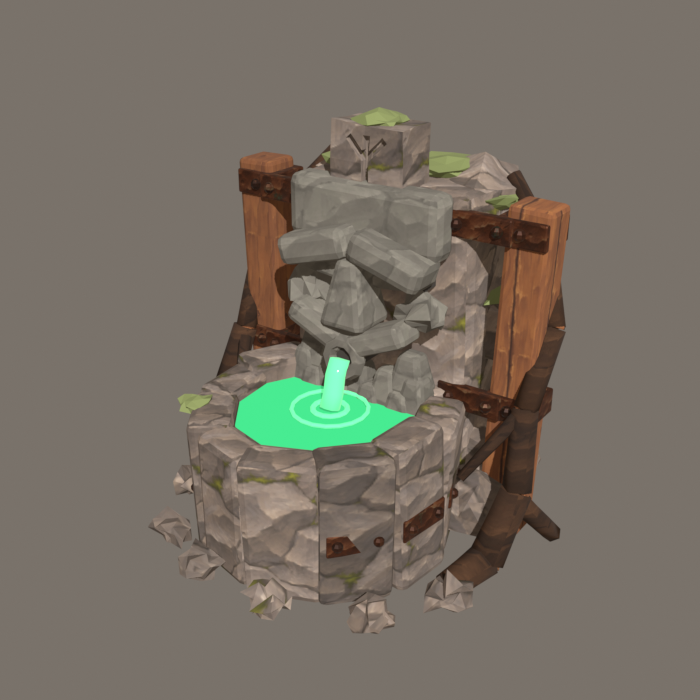
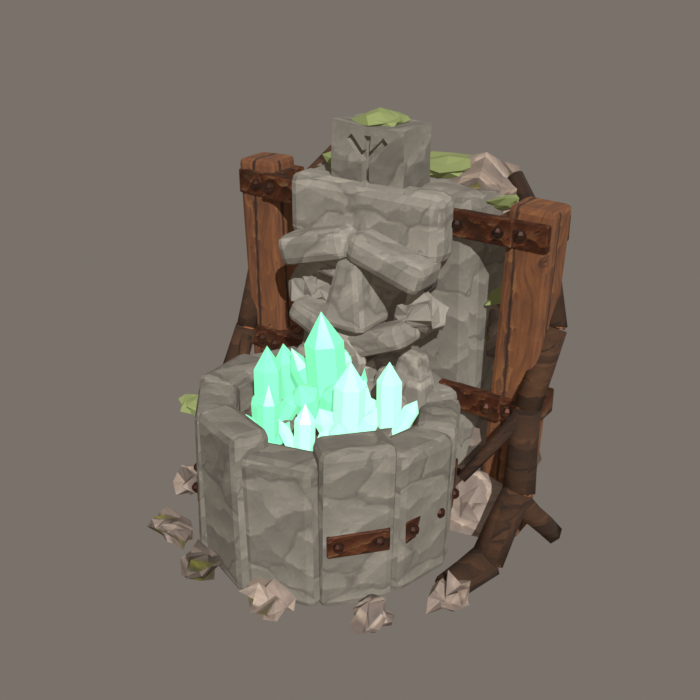
F782: healing fountain gets crystals instead of water and lighter stone

Changed region(s): [[0.21, 0.18, 0.81, 0.9], [0.75, 0.6, 0.78, 0.72]]

diff --git a/tools/fountain_page/healing_fountain_page.html b/tools/fountain_page/healing_fountain_page.html
@@ -45,7 +45,7 @@ ul { margin: 0; padding-left: 20px; max-width: 70ch; display: grid; gap: 4px; }
 <div class="wrap">
 	<header style="display:grid;gap:10px">
 		<h1>The new <span>healing fountain</span></h1>
-		<p class="lead">F782, for all four dungeons. A stone dwarf face pours glowing green water into a round stone basin, held up by old mine timbers with copper straps, with roots and moss growing over it. It is not in the game yet: tell me what to change first.</p>
+		<p class="lead">F782, for all four dungeons. A stone dwarf face watches over a round stone basin full of glowing green healing crystals, held up by old mine timbers with copper straps, with roots and moss growing over it. It is not in the game yet: tell me what to change first.</p>
 	</header>
 
 	<div class="bar">
@@ -63,8 +63,8 @@ ul { margin: 0; padding-left: 20px; max-width: 70ch; display: grid; gap: 4px; }
 	<section style="display:grid;gap:12px">
 		<h2>Things to look at</h2>
 		<ul>
-			<li>Does the stone face read as a dwarf (heavy brow, shut eyes, big nose, moustache, beard down to the water)?</li>
-			<li>Is the water green and glowing enough? It can glow more in the dark dungeons.</li>
+			<li>Does the stone face read as a dwarf (heavy brow, shut eyes, big nose, moustache, beard)?</li>
+			<li>Lighter stone now, and no water: the basin is full of glowing green crystals, with a small one growing out of the mouth.</li>
 			<li>It is a bit bigger than the old one (1.2 m instead of 0.95 m). I can shrink it to fit the old spot exactly.</li>
 			<li>The back is a pile of rough boulders, so it can stand against a wall or in the open.</li>
 		</ul>
@@ -104,7 +104,7 @@ function makeView(i) {
 	renderer.toneMapping = THREE.ACESFilmicToneMapping;
 	const scene = new THREE.Scene();
 	scene.background = new THREE.Color(0x2c2925);
-	scene.add(new THREE.HemisphereLight(0xfff4e0, 0x3a3128, 1.6));
+	scene.add(new THREE.HemisphereLight(0xfff4e0, 0x3a3128, 2.0));
 	const sun = new THREE.DirectionalLight(0xffe8c8, 2.2);
 	sun.position.set(2, 3, 3);
 	scene.add(sun);

diff --git a/tools/asset_forge/builds/healing_fountain.py b/tools/asset_forge/builds/healing_fountain.py
@@ -1,5 +1,6 @@
-# F782: the new dungeon healing fountain (owner picked design 1, Nov 22): a rune-carved stone dwarf face pours
-# glowing green water into a round stone basin. Mine-timber posts with copper straps hold the head, old roots
+# F782: the new dungeon healing fountain (owner picked design 1, Nov 22): a rune-carved stone dwarf face over a
+# round stone basin full of glowing green healing crystals (owner, Nov 22: no water, it would be hard to animate;
+# lighter stone). Mine-timber posts with copper straps hold the head, old roots
 # wind down the sides, moss on top. Built from assets/concepts/healing-fountain/fountain_turnaround.png
 # (the TRELLIS shape in journey/3d/trellis_f706/ was only a shape guide, model rule 1).
 # NOT in the game yet: the owner wants to see it first. Same floor spot as decor/mushroom_fountain (about 1 m round).
@@ -18,18 +19,17 @@ from decor_nov21_mg import carve  # noqa: E402
 CU = lambda v="b": kit.tex_mat("copper", v)  # noqa: E731
 WOOD = lambda: T("wood")  # noqa: E731
 BARK = lambda: T("bark")  # noqa: E731
-GREY = lambda: T("stone")  # noqa: E731
+GREY = lambda: T("limestone", "b")  # noqa: E731   (lighter stone, owner Nov 22)
 MOSS = lambda: kit.mat("moss", -0.25)
-FACE = lambda: T("limestone", "b")  # noqa: E731
+FACE = lambda: T("limestone", "a")  # noqa: E731
 DARK = lambda: C((0.07, 0.06, 0.05), 0.9)  # noqa: E731
-WATER_DEEP = lambda: C((0.01, 0.16, 0.07), 0.15, glow=0.4)  # noqa: E731
-WATER_TOP = lambda: C((0.03, 0.5, 0.17), 0.1, glow=0.9)  # noqa: E731
-WATER_POUR = lambda: C((0.12, 0.75, 0.3), 0.1, glow=1.1)  # noqa: E731
+GEM = lambda: C((0.18, 0.8, 0.42), 0.15, glow=0.8)  # noqa: E731          healing crystal
+GEM_PALE = lambda: C((0.35, 0.95, 0.6), 0.15, glow=0.9)  # noqa: E731     its lighter tips
 
 BX, BY = 0.0, -0.12      # basin centre
 R_OUT, R_IN = 0.37, 0.25  # basin stone ring
 TOP = 0.44               # basin rim height
-WATER = 0.39             # water surface
+BED = 0.36               # pebble bed inside the basin
 
 
 def basin():
@@ -44,10 +44,19 @@ def basin():
 			fy = BY - R_OUT + 0.005
 			for rot in (0, 32, -32):
 				carve(o, (0.022, 0.05, 0.19), (BX, fy, 0.22), rot=(0, rot, 0))
-	# basin floor (inside the ring) and the water, in layers so they never share a surface (rule 2)
-	kit.cylinder(R_IN + 0.03, 0.30, (BX, BY, 0.15), GREY(), verts=14, bevel=0.01)
-	kit.cylinder(R_IN + 0.02, WATER - 0.012 - 0.30, (BX, BY, (0.30 + WATER - 0.012) / 2), WATER_DEEP(), verts=16, bevel=0)
-	kit.cylinder(R_IN + 0.015, 0.012, (BX, BY, WATER - 0.006), WATER_TOP(), verts=16, bevel=0)
+	# basin floor (inside the ring), a bed of pebbles and moss, and the healing crystals growing out of it
+	kit.cylinder(R_IN + 0.03, BED, (BX, BY, BED / 2), T("stone", "a"), verts=14, bevel=0.01)
+	for i in range(9):
+		a = i * 2.4
+		rr = 0.06 + (i % 3) * 0.06
+		lump((BX + math.cos(a) * rr, BY + math.sin(a) * rr, BED + 0.005), (0.06, 0.05, 0.035), T("limestone", "a"), seed=80 + i, rough=0.008)
+	for i, (x, y) in enumerate(((-0.13, -0.06), (0.14, -0.02), (0.02, -0.22))):
+		lump((BX + x, BY + y, BED + 0.01), (0.06, 0.05, 0.015), MOSS(), seed=90 + i, rough=0.006)
+	g, gp = GEM(), GEM_PALE()
+	kit.crystal_cluster((BX, BY + 0.02, BED), 1.1, g, seed=7, n=6)            # big middle cluster, under the face
+	for i, (x, y, sc, n) in enumerate(((-0.13, -0.1, 0.8, 4), (0.13, -0.08, 0.85, 5), (-0.05, -0.2, 0.6, 3),
+			(0.08, -0.21, 0.55, 3), (-0.17, 0.05, 0.65, 3), (0.17, 0.06, 0.7, 3))):
+		kit.crystal_cluster((BX + x, BY + y, BED), sc, gp if i % 2 else g, seed=11 + i, n=n)
 	# copper band round the front half, in short riveted plates pressed into each stone
 	for k in (1, 2, 3, 4, 6, 7, 8, 9):
 		a = 2 * math.pi * (k + 0.5) / 11 - math.pi / 2
@@ -62,7 +71,7 @@ def basin():
 
 def head():
 	# the big stone the face is cut from, with rough boulders round its sides and back
-	core = B((0.6, 0.3, 1.0), (0, 0.27, 0.5), GREY(), bevel=0.04)
+	core = B((0.6, 0.3, 1.0), (0, 0.285, 0.5), GREY(), bevel=0.04)   # front 1.5 cm behind the basin stones (rule 2)
 	kit.roughen(core, 0.01, 1, seed=3)
 	for i, (x, y, z, s) in enumerate(((-0.3, 0.32, 0.18, 0.2), (0.3, 0.3, 0.2, 0.21), (-0.27, 0.36, 0.55, 0.18),
 			(0.28, 0.35, 0.58, 0.18), (-0.2, 0.36, 0.9, 0.17), (0.2, 0.35, 0.92, 0.17), (0.0, 0.42, 0.35, 0.22),
@@ -94,10 +103,8 @@ def head():
 	carve(rs, (0.022, 0.04, 0.14), (0, ry, 1.07))
 	for sx in (-1, 1):
 		carve(rs, (0.02, 0.04, 0.08), (sx * 0.03, ry, 1.105), rot=(0, sx * 45, 0))
-	# the pour: from the mouth into the basin, with a bright splash ring on the water
-	log((0, fy - 0.17, 0.53), (0, BY + 0.02, WATER + 0.004), 0.028, WATER_POUR(), seg=8, rings=3, ends=False, bend=0.12)
-	kit.ring(0.05, 0.008, (0, BY + 0.02, WATER + 0.004), WATER_POUR(), seg=14)
-	kit.ring(0.11, 0.006, (0, BY + 0.02, WATER + 0.006), WATER_POUR(), seg=18)
+	# a small healing crystal growing out of the mouth (instead of a water stream)
+	kit.crystal((0, fy - 0.12, 0.53), 0.028, 0.12, GEM_PALE(), tilt=(90, 0, 0), sides=6)
 
 
 def timbers():

diff --git a/FEEDBACK.md b/FEEDBACK.md
@@ -104,7 +104,7 @@ Fixed items get ~~crossed out~~, never deleted, so we can see the whole history.
 - [ ] **F777. Big-base speed test before the demo.** Valheim and Grounded players complain about lag in big bases. *From: research (`docs/research/reports/Survival game design lessons.md`), you asked to add it (PC, Nov 22). Said: 1×*
 - [ ] **F778. Short public roadmap and quick update notes after big fixes.** Valheim players were angry about slow early access; Deep Rock's fast fix plan calmed players. *From: research (`docs/research/reports/Survival game design lessons.md`), you asked to add it (PC, Nov 22). Said: 1×*
 - [ ] **F779. Later, only if needed: a per-player slider that makes scary creatures look less scary.** Like Grounded's spider slider. *From: research (`docs/research/reports/Survival game design lessons.md`), you asked to add it (PC, Nov 22). Said: 1×*
-- [ ] **F782. A new healing fountain for the dungeons.** You don't like the mushroom fountain (`decor/mushroom_fountain.glb`, the "Healing basin" in Mossgate, Lampwick, Mossprop and Pell). Built: design 1 (stone dwarf face pours glowing green water into a stone basin, mine timbers, copper, roots, moss) in `tools/asset_forge/builds/healing_fountain.py`, shown on the 3D page next to the old one and the TRELLIS shape. Not in the game yet: waiting for your OK. *From: you (PC, Nov 22). Said: 1×*
+- [ ] **F782. A new healing fountain for the dungeons.** You don't like the mushroom fountain (`decor/mushroom_fountain.glb`, the "Healing basin" in Mossgate, Lampwick, Mossprop and Pell). Built: design 1 (stone dwarf face over a stone basin, mine timbers, copper, roots, moss). Nov 22 round 2 (you): lighter stone, no water (hard to animate), glowing green crystals in the basin instead in `tools/asset_forge/builds/healing_fountain.py`, shown on the 3D page next to the old one and the TRELLIS shape. Not in the game yet. *From: you (PC, Nov 22). Said: 1×*
 - [ ] **F735. Crouching.** Duck down to sneak and fit under low rock. Goes with the new moves in F700. *From: you (PC, Nov 22, late evening). Said: 1×*
 - [ ] **F736. Medium armor.** A middle armor between leather and heavy, with its own look (art style rule, MODEL-RULES). *From: you (PC, Nov 22, late evening). Said: 1×*
 - [ ] **F737. 2 or 3 new dwarf heads, maybe a 4th.** More faces to choose from for your dwarf. *From: you (PC, Nov 22, late evening). Said: 1×*

diff --git a/journal-inbox/2026-11-23-0010-healing-fountain-crystals.md b/journal-inbox/2026-11-23-0010-healing-fountain-crystals.md
@@ -1,0 +1,8 @@
+## 2026-11-23 — F782 round 2: crystals instead of water, lighter stone
+
+**What we did**
+- The owner loved the new 3D page way (models packed as text). The fountain changes they asked for: lighter, and no water at all (it would be hard to animate). So the basin now holds a pebble-and-moss bed with glowing green healing crystal clusters, and a small crystal grows out of the mouth instead of the water stream. The stone is limestone now, about 25% brighter.
+
+**Mistakes and hurdles**
+- Switching the stone to a fixed limestone stopped the build from using up random numbers, so every small random wobble moved. One basin stone then lined up exactly with the head block, and the shimmer check caught it. Fix: I moved the head block 1.5 cm back, so they can never line up.
+- First crystals were too small and hid behind the basin rim, and the pale tips looked white. Fix: raised the bed 6 cm, made the clusters bigger and the tips greener (2nd and last render round).
